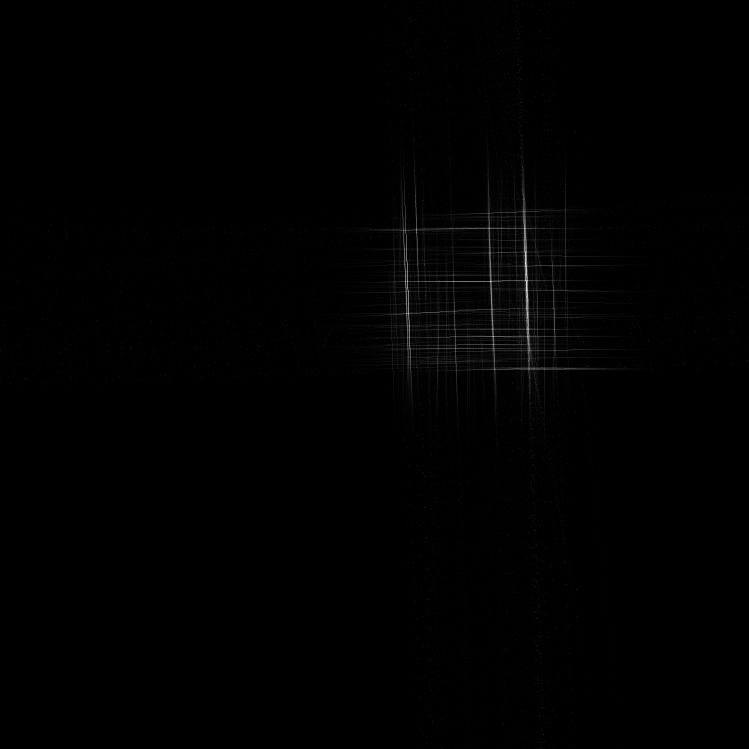
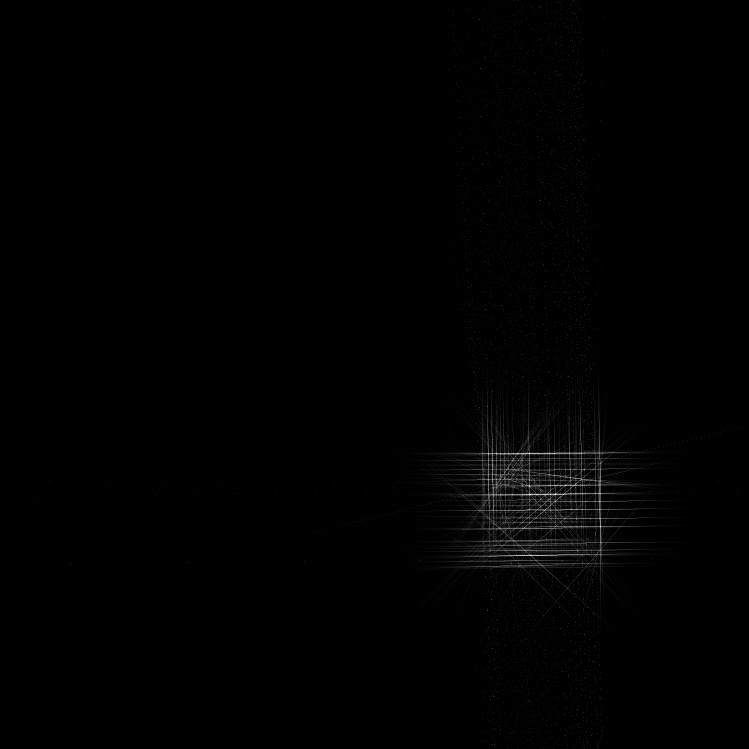
Add GridFeature class.

Changed region(s): [[0.6142, 0.5527, 0.8598, 0.7677], [0.522, 0.2457, 0.7677, 0.522]]

diff --git a/RoadFeatureExplorer/RoadSegmentationUtil.cpp b/RoadFeatureExplorer/RoadSegmentationUtil.cpp
@@ -57,7 +57,8 @@ struct faceVisitorForPlazaDetection : public boost::planar_face_traversal_visito
  */
 void RoadSegmentationUtil::detectGrid(RoadGraph& roads, AbstractArea& area, int roadType, int maxIteration, float numBins, float minTotalLength, float minMaxBinRatio, float angleThreshold, float votingRatioThreshold, float extendingDistanceThreshold) {
 	for (int i = 0; i < maxIteration; i++) {
-		if (!detectOneGrid(roads, area, roadType, i, numBins, minTotalLength, minMaxBinRatio, angleThreshold, votingRatioThreshold, extendingDistanceThreshold)) break;
+		GridFeature gf(i);
+		if (!detectOneGrid(roads, area, roadType, gf, numBins, minTotalLength, minMaxBinRatio, angleThreshold, votingRatioThreshold, extendingDistanceThreshold)) break;
 	}
 }
 
@@ -69,7 +70,7 @@ void RoadSegmentationUtil::detectGrid(RoadGraph& roads, AbstractArea& area, int 
  * @param minTotalLength		最大頻度となるビンに入ったエッジの総延長距離が、この値より小さい場合、顕著な特徴ではないと考え、グリッド検知せずにfalseを返却する
  * @param minMaxBinRatio		最大頻度となるビンの割合が、この値より小さい場合は、顕著な特徴ではないと考え、グリッド検知せずにfalseを返却する
  */
-bool RoadSegmentationUtil::detectOneGrid(RoadGraph& roads, AbstractArea& area, int roadType, int group_id, int numBins, float minTotalLength, float minMaxBinRatio, float angleThreshold, float votingRatioThreshold, float extendingDistanceThreshold) {
+bool RoadSegmentationUtil::detectOneGrid(RoadGraph& roads, AbstractArea& area, int roadType, GridFeature& gf, int numBins, float minTotalLength, float minMaxBinRatio, float angleThreshold, float votingRatioThreshold, float extendingDistanceThreshold) {
 	// ヒストグラムの初期化
 	cv::Mat dirMat = cv::Mat::zeros(numBins, 1, CV_32F);
 
@@ -119,9 +120,10 @@ bool RoadSegmentationUtil::detectOneGrid(RoadGraph& roads, AbstractArea& area, i
 	// 最頻値（モード）のビンの割合がminMaxBinRatio%未満なら、グリッドとは見なさない
 	if (max_hist_value < minTotalLength || max_hist_value < (float)count * minMaxBinRatio) return false;
 
+	// グリッド方向の近似値をセットする
+	gf.setAngle(((float)max_bin_id + 0.5f) / (float)numBins * M_PI * 0.5f);
+
 	// 最頻値（モード）のビンに入るエッジを使って、高精度のグリッド方向を計算する
-	QVector2D gridDir;
-	count = 0;
 	for (boost::tie(ei, eend) = boost::edges(roads.graph); ei != eend; ++ei) {
 		if (!roads.graph[*ei]->valid) continue;
 
@@ -139,33 +141,10 @@ bool RoadSegmentationUtil::detectOneGrid(RoadGraph& roads, AbstractArea& area, i
 
 		float length = 0.0f;
 		for (int i = 0; i < roads.graph[*ei]->polyLine.size() - 1; i++) {
-			QVector2D dir = roads.graph[*ei]->polyLine[i + 1] - roads.graph[*ei]->polyLine[i];
-			float theta = atan2f(dir.y(), dir.x());
-			if (theta < 0) {
-				theta += M_PI;
-				dir = -dir;
-			}
-
-			if (theta > M_PI * 0.5f) {
-				theta -= M_PI * 0.5f;
-				float tmpX = dir.x();
-				float tmpY = dir.y();
-				dir.setX(tmpY);
-				dir.setY(-tmpX);
-			}
-
-			// どのビンか決定
-			int bin_id = theta * (float)numBins / M_PI * 2.0f;
-			if (bin_id >= numBins) continue;
-
-			if (bin_id != max_bin_id) continue;
-
-			// 同じビンに入るエッジを使って、高精度のグリッド方向を計算する
-			gridDir += dir.normalized();
-			count++;
+			gf.addDirection(roads.graph[*ei]->polyLine[i + 1] - roads.graph[*ei]->polyLine[i], M_PI * 0.5f / (float)numBins);
 		}
 	}
-	gridDir /= (float)count;
+	gf.computeDirection();
 
 	// 最頻値（モード）のビンに入るエッジを、グループに登録する
 	for (boost::tie(ei, eend) = boost::edges(roads.graph); ei != eend; ++ei) {
@@ -186,22 +165,9 @@ bool RoadSegmentationUtil::detectOneGrid(RoadGraph& roads, AbstractArea& area, i
 		float length = 0.0f;
 		for (int i = 0; i < roads.graph[*ei]->polyLine.size() - 1; i++) {
 			QVector2D dir = roads.graph[*ei]->polyLine[i + 1] - roads.graph[*ei]->polyLine[i];
-			float theta = atan2f(dir.y(), dir.x());
-			if (theta < 0) {
-				theta += M_PI;
-				dir = -dir;
-			}
-
-			if (theta > M_PI * 0.5f) {
-				theta -= M_PI * 0.5f;
-				float tmpX = dir.x();
-				float tmpY = dir.y();
-				dir.setX(tmpY);
-				dir.setY(-tmpX);
-			}
 
 			// エッジの方向が、グリッド方向に近い場合、投票する
-			if (GraphUtil::diffAngle(dir, gridDir) < angleThreshold || GraphUtil::diffAngle(dir, gridDir) > M_PI * 0.5f - angleThreshold) {
+			if (gf.isClose(dir, angleThreshold)) {
 				length += dir.length();
 			}
 		}
@@ -209,16 +175,16 @@ bool RoadSegmentationUtil::detectOneGrid(RoadGraph& roads, AbstractArea& area, i
 		// votingRatioThreshold%以上、グリッドの方向と同じ方向のエッジなら、そのエッジを当該グループに入れる
 		if (length >= roads.graph[*ei]->getLength() * votingRatioThreshold) {
 			roads.graph[*ei]->shapeType = RoadEdge::SHAPE_GRID;
-			roads.graph[*ei]->group = group_id;
+			roads.graph[*ei]->group = gf.group_id;
 			roads.graph[*ei]->gridness = length / roads.graph[*ei]->getLength();
 		}
 	}
 
 	// 最大連結成分に属さないエッジは、グループから外す
-	reduceGridGroup(roads, group_id);
+	reduceGridGroup(roads, gf);
 
 	//
-	extendGridGroup(roads, area, roadType, group_id, gridDir, angleThreshold, votingRatioThreshold, extendingDistanceThreshold);
+	extendGridGroup(roads, area, roadType, gf, angleThreshold, votingRatioThreshold, extendingDistanceThreshold);
 
 	roads.setModified();
 
@@ -271,7 +237,7 @@ int RoadSegmentationUtil::traverseConnectedEdges(RoadGraph& roads, RoadEdgeDesc 
 /**
  * 最大連結成分に属さないエッジは、group_idを-1に戻す
  */
-void RoadSegmentationUtil::reduceGridGroup(RoadGraph& roads, int group_id) {
+void RoadSegmentationUtil::reduceGridGroup(RoadGraph& roads, GridFeature& gf) {
 	// 各エッジが、どのグループに属するか
 	QMap<RoadEdgeDesc, int> edges;
 
@@ -279,7 +245,7 @@ void RoadSegmentationUtil::reduceGridGroup(RoadGraph& roads, int group_id) {
 	RoadEdgeIter ei, eend;
 	for (boost::tie(ei, eend) = boost::edges(roads.graph); ei != eend; ++ei) {
 		if (!roads.graph[*ei]->valid) continue;
-		if (roads.graph[*ei]->group == group_id) {
+		if (roads.graph[*ei]->group == gf.group_id) {
 			edges.insert(*ei, -1);
 		}
 	}
@@ -314,7 +280,7 @@ void RoadSegmentationUtil::reduceGridGroup(RoadGraph& roads, int group_id) {
 		if (roads.graph[*ei]->shapeType != RoadEdge::SHAPE_GRID) continue;
 
 		// 他のグループのエッジは、スキップする
-		if (roads.graph[*ei]->group != group_id) continue;
+		if (roads.graph[*ei]->group != gf.group_id) continue;
 
 		// 当該グループに属するエッジについて、最大グループ以外は、グループから外す
 		if (edges[*ei] != max_segment) {
@@ -329,7 +295,7 @@ void RoadSegmentationUtil::reduceGridGroup(RoadGraph& roads, int group_id) {
  * グリッドのグループの属さないエッジについて、近くに属するエッジがあれば、そのグループの仲間に入れちゃう。
  * これをしてあげないと、例えばラウンドアバウトに挟まれたエッジなどが、グリッドの仲間に入れない。
  */
-void RoadSegmentationUtil::extendGridGroup(RoadGraph& roads, AbstractArea& area, int roadType, int group_id, const QVector2D& gridDir, float angleThreshold, float votingRatioThreshold, float distanceThreshold) {
+void RoadSegmentationUtil::extendGridGroup(RoadGraph& roads, AbstractArea& area, int roadType, GridFeature& gf, float angleThreshold, float votingRatioThreshold, float distanceThreshold) {
 	float distanceThreshold2 = distanceThreshold * distanceThreshold;
 
 	RoadEdgeIter ei, eend;
@@ -351,22 +317,9 @@ void RoadSegmentationUtil::extendGridGroup(RoadGraph& roads, AbstractArea& area,
 		float length = 0.0f;
 		for (int i = 0; i < roads.graph[*ei]->polyLine.size() - 1; i++) {
 			QVector2D dir = roads.graph[*ei]->polyLine[i + 1] - roads.graph[*ei]->polyLine[i];
-			float theta = atan2f(dir.y(), dir.x());
-			if (theta < 0) {
-				theta += M_PI;
-				dir = -dir;
-			}
-
-			if (theta > M_PI * 0.5f) {
-				theta -= M_PI * 0.5f;
-				float tmpX = dir.x();
-				float tmpY = dir.y();
-				dir.setX(tmpY);
-				dir.setY(-tmpX);
-			}
 
 			// エッジの方向が、グリッド方向に近い場合、投票する
-			if (GraphUtil::diffAngle(dir, gridDir) < angleThreshold || GraphUtil::diffAngle(dir, gridDir) > M_PI * 0.5f - angleThreshold) {
+			if (gf.isClose(dir, angleThreshold)) {
 				length += dir.length();
 			}
 		}
@@ -385,7 +338,7 @@ void RoadSegmentationUtil::extendGridGroup(RoadGraph& roads, AbstractArea& area,
 			if (roads.graph[*ei2]->shapeType != RoadEdge::SHAPE_GRID) continue;
 
 			// 異なるグループのエッジは、スキップ
-			if (roads.graph[*ei2]->group != group_id) continue;
+			if (roads.graph[*ei2]->group != gf.group_id) continue;
 
 			RoadVertexDesc src2 = boost::source(*ei2, roads.graph);
 			RoadVertexDesc tgt2 = boost::target(*ei2, roads.graph);
@@ -396,7 +349,7 @@ void RoadSegmentationUtil::extendGridGroup(RoadGraph& roads, AbstractArea& area,
 				(roads.graph[tgt]->pt - roads.graph[src2]->pt).lengthSquared() < distanceThreshold2 || 
 				(roads.graph[tgt]->pt - roads.graph[tgt2]->pt).lengthSquared() < distanceThreshold2) {
 				roads.graph[*ei]->shapeType = RoadEdge::SHAPE_GRID;
-				roads.graph[*ei]->group = group_id;
+				roads.graph[*ei]->group = gf.group_id;
 				roads.graph[*ei]->gridness = length / roads.graph[*ei]->getLength();
 				break;
 			}

diff --git a/RoadFeatureExplorer/GridFeature.cpp b/RoadFeatureExplorer/GridFeature.cpp
@@ -1,0 +1,80 @@
+#include "GridFeature.h"
+#include "Util.h"
+
+#ifndef M_PI
+#define M_PI	3.141592653
+#endif
+
+/**
+ * グリッド方向の近似値を使って、グリッドの角度を仮にセットする。
+ */
+void GridFeature::setAngle(float angle) {
+	angle1 = angle;
+	angle2 = angle + M_PI * 0.5f;
+
+	count = 0;
+	tempDir1 = QVector2D(0, 0);
+	tempDir2 = QVector2D(0, 0);
+}
+
+/**
+ * エッジ方向を追加しながら、グリッド方向の精度を上げる。
+ * ただし、当該エッジの方向が、仮の方向から閾値よりも大きく外れている場合は、そのエッジの方向は無視する。
+ */
+void GridFeature::addDirection(const QVector2D& dir, float threshold) {
+	QVector2D d = dir.normalized();
+
+	float a1 = atan2f(d.y(), d.x());
+	float a2 = atan2f(-d.y(), -d.x());
+
+	float diff1 = Util::diffAngle(angle1, a1);
+	float diff2 = Util::diffAngle(angle1, a2);
+	float diff3 = Util::diffAngle(angle2, a1);
+	float diff4 = Util::diffAngle(angle2, a2);
+	float min_diff = std::min(std::min(diff1, diff2), std::min(diff3, diff4));
+
+	// エッジの方向が、仮の方向から閾値よりも大きく外れている場合は、そのエッジの方向は無視する。
+	if (min_diff > threshold) return;
+
+	if (diff1 == min_diff) {
+		tempDir1 += d;
+		tempDir2 += QVector2D(-d.y(), d.x());
+	} else if (diff2 == min_diff) {
+		tempDir1 -= d;
+		tempDir2 -= QVector2D(-d.y(), d.x());
+	} else if (diff3 == min_diff) {
+		tempDir1 += QVector2D(d.y(), -d.x());
+		tempDir2 += d;
+	} else {
+		tempDir1 -= QVector2D(d.y(), -d.x());
+		tempDir2 -= d;
+	}
+
+	count++;
+}
+
+/**
+ * エッジの追加が終わったら、この関数を呼んで、グリッド方向をより正確な値に更新する。
+ */
+void GridFeature::computeDirection() {
+	tempDir1 /= (float)count;
+	tempDir2 /= (float)count;
+
+	angle1 = atan2f(tempDir1.y(), tempDir1.x());
+	angle2 = atan2f(tempDir2.y(), tempDir2.x());
+
+	count = 0;
+	tempDir1 = QVector2D(0, 0);
+	tempDir2 = QVector2D(0, 0);
+}
+
+/**
+ * 与えられたエッジの方向が、グリッド方向に近いかどうかチェックする。
+ */
+bool GridFeature::isClose(const QVector2D& dir, float threshold) {
+	float a1 = atan2f(dir.y(), dir.x());
+	float a2 = atan2f(-dir.y(), -dir.x());
+
+	if (Util::diffAngle(angle1, a1) < threshold || Util::diffAngle(angle1, a2) < threshold || Util::diffAngle(angle2, a1) < threshold || Util::diffAngle(angle2, a2) < threshold) return true;
+	else return false;
+}

diff --git a/RoadFeatureExplorer/RoadSegmentationUtil.h b/RoadFeatureExplorer/RoadSegmentationUtil.h
@@ -2,6 +2,7 @@
 
 #include "RoadGraph.h"
 #include "AbstractArea.h"
+#include "GridFeature.h"
 #include <opencv/cv.h>
 #include <opencv/highgui.h>
 
@@ -12,10 +13,10 @@ protected:
 
 public:
 	static void detectGrid(RoadGraph& roads, AbstractArea& area, int roadType, int maxIteration, float numBins, float minTotalLength, float minMaxBinRatio, float angleThreshold, float votingRatioThreshold, float extendingDistanceThreshold);
-	static bool detectOneGrid(RoadGraph& roads, AbstractArea& area, int roadType, int group_id, int numBins, float minTotalLength, float minMaxBinRatio, float angleThreshold, float votingRatioThreshold, float extendingDistanceThreshold);
+	static bool detectOneGrid(RoadGraph& roads, AbstractArea& area, int roadType, GridFeature& gf, int numBins, float minTotalLength, float minMaxBinRatio, float angleThreshold, float votingRatioThreshold, float extendingDistanceThreshold);
 	static int traverseConnectedEdges(RoadGraph& roads, RoadEdgeDesc e, QMap<RoadEdgeDesc, int>& edges, int segment_id);
-	static void reduceGridGroup(RoadGraph& roads, int group_id);
-	static void extendGridGroup(RoadGraph& roads, AbstractArea& area, int roadType, int group_id, const QVector2D& gridDir, float angleThreshold, float votingRatioThreshold, float distanceThreshold);
+	static void reduceGridGroup(RoadGraph& roads, GridFeature& gf);
+	static void extendGridGroup(RoadGraph& roads, AbstractArea& area, int roadType, GridFeature& gf, float angleThreshold, float votingRatioThreshold, float distanceThreshold);
 
 	static void detectPlaza(RoadGraph& roads, AbstractArea& area);
 

diff --git a/RoadFeatureExplorer/Util.cpp b/RoadFeatureExplorer/Util.cpp
@@ -1,4 +1,4 @@
-#include "Util.h"
+#include "Util.h"
 #define _USE_MATH_DEFINES
 #include <math.h>
 
@@ -167,3 +167,48 @@ float Util::pointSegmentDistanceXY(const QVector2D& a, const QVector2D& b, const
 
 	return abs(dist);
 }
+
+/**
+ * 角度を正規化し、[-PI , PI]の範囲にする。
+ */
+float Util::normalizeAngle(float angle) {
+	// まずは、正の値に変換する
+	if (angle < 0.0f) {
+		angle += ((int)(fabs(angle) / M_PI / 2.0f) + 1) * M_PI * 2;
+	}
+
+	// 次に、[0, PI * 2]の範囲にする
+	angle -= (int)(angle / M_PI / 2.0f) * M_PI * 2;
+
+	// 最後に、[-PI, PI]の範囲にする
+	//if (angle > M_PI) angle = M_PI * 2.0f - angle;
+	if (angle > M_PI) angle = angle - M_PI * 2.0f;		// fix this bug on 12/17
+
+	return angle;
+}
+
+/**
+ * Compute the difference in angle that is normalized in the range of [0, PI].
+ */
+float Util::diffAngle(const QVector2D& dir1, const QVector2D& dir2, bool absolute) {
+	float ang1 = atan2f(dir1.y(), dir1.x());
+	float ang2 = atan2f(dir2.y(), dir2.x());
+
+	if (absolute) {
+		return fabs(normalizeAngle(ang1 - ang2));
+	} else {
+		return normalizeAngle(ang1 - ang2);
+	}
+}
+
+/**
+ * Compute the difference in angle that is normalized in the range of [0, PI].
+ */
+float Util::diffAngle(float angle1, float angle2, bool absolute) {
+	if (absolute) {
+		return fabs(normalizeAngle(angle1 - angle2));
+	} else {
+		return normalizeAngle(angle1 - angle2);
+	}
+}
+

diff --git a/RoadFeatureExplorer/GridFeature.h b/RoadFeatureExplorer/GridFeature.h
@@ -1,0 +1,28 @@
+#pragma once
+
+#include <QVector2D>
+#include <opencv/cv.h>
+#include <opencv/highgui.h>
+
+class GridFeature {
+public:
+	int group_id;
+	float angle1;		// 横方向の角度（第一象限）
+	float angle2;		// 縦方向の角度（第二象限）
+	cv::Mat length1;	// 横方向の長さのヒストグラム
+	cv::Mat length2;	// 縦方向の長さのヒストグラム
+
+	int count;
+	QVector2D tempDir1;
+	QVector2D tempDir2;
+
+public:
+	GridFeature(int group_id) : group_id(group_id) {}
+	~GridFeature() {}
+
+	void setAngle(float angle);
+	void addDirection(const QVector2D& dir, float threshold);
+	void computeDirection();
+	bool isClose(const QVector2D& dir, float threshold);
+};
+

diff --git a/RoadFeatureExplorer/Util.h b/RoadFeatureExplorer/Util.h
@@ -1,4 +1,4 @@
-#pragma once
+#pragma once
 
 #include <qvector3d.h>
 #include <qvector2d.h>
@@ -17,5 +17,9 @@ public:
 	static bool segmentSegmentIntersectXY(const QVector2D& a, const QVector2D& b, const QVector2D& c, const QVector2D& d, float *tab, float *tcd, bool segmentOnly, QVector2D &intPoint);
 	static float pointSegmentDistanceXY(const QVector2D& a, const QVector2D& b, const QVector2D& c, QVector2D& closestPtInAB);
 
+	// 角度関係
+	static float normalizeAngle(float angle);
+	static float diffAngle(const QVector2D& dir1, const QVector2D& dir2, bool absolute = true);
+	static float diffAngle(float angle1, float angle2, bool absolute = true);
 };
 
